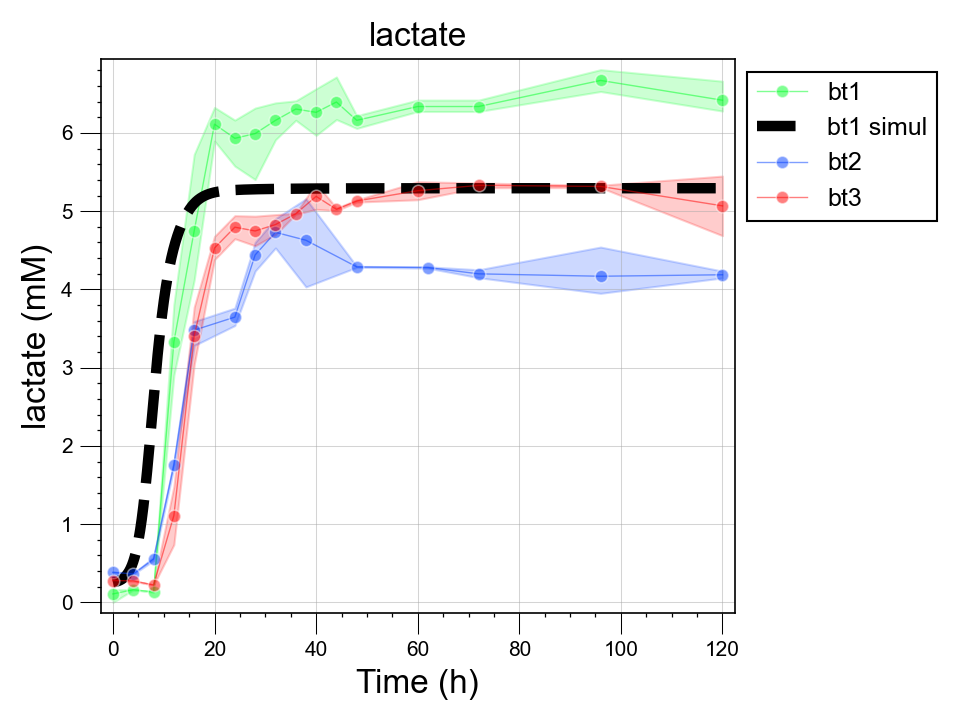
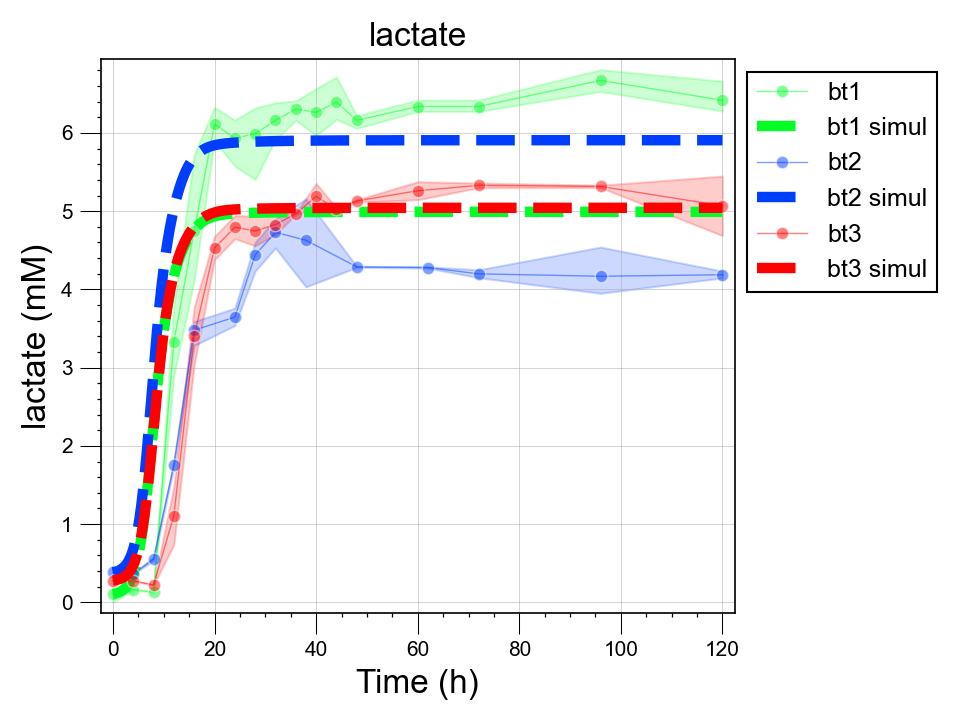
updates

diff --git a/scripts/compare2experiments/compareModel2States.py b/scripts/compare2experiments/compareModel2States.py
@@ -43,15 +43,7 @@ measuredStates = ['live',
                   'lactate',
                   'acetate']
 
-intervals = [4,
-             12,
-             4,
-             
-             4,
-             4,
-             4,
-             16,
-             4]
+
 
 
 bh1 = simulateExperiment('bh', 
@@ -60,7 +52,7 @@ bh1 = simulateExperiment('bh',
                        database, 
                        measuredStates, 
                        combined=False, 
-                       intervals=intervals)
+                       intervals=None)
 
 bh2 = simulateExperiment('bh', 
                        'bhri', 
@@ -68,7 +60,7 @@ bh2 = simulateExperiment('bh',
                        database, 
                        measuredStates, 
                        combined=False, 
-                       intervals=intervals)
+                       intervals=None)
 
 bh3 = simulateExperiment('bh', 
                        'bhbtri', 
@@ -76,7 +68,7 @@ bh3 = simulateExperiment('bh',
                        database, 
                        measuredStates, 
                        combined=False, 
-                       intervals=intervals)
+                       intervals=None)
 
 
 
@@ -108,30 +100,93 @@ for i,v in enumerate(states):
     makeExperimentPlot(species, v, stTypes[i], experiments, labels, colors, simulObj = [bh1, bh2, bh3], alpha=0.5)
     #plt.savefig(os.path.join(figPath, v + '_model.png'), dpi = 150)
     #plt.savefig(os.path.join(figPath, 'logos', v + '_model.png'), dpi = 50)
-    #plt.show()
+    plt.show()
     
 
-measuredStates = [
-                  'trehalose',
-                  'pyruvate',
-                  'glucose',
-                  'lactate',
-                  'acetate']
 
-bhwctreh = simulateExperiment('bh', 
-                       'bhwctreh', 
+####################################################################################
+
+species = 'bt'
+experiments = ['bhbt', 'btri', 'bhbtri']
+labels = ['bt1', 'bt2', 'bt3']
+colors = ['#00ff26', '#003eff', '#ff0000']
+
+params = getPramsFromFile('bt', os.path.join(Path(os.getcwd()).parents[1], 'files', 'params', 'bt.tsv'))
+
+databaseName = 'modelDB_bhbtri_bh.sqlite3'
+
+databaseFolder =  os.path.join(Path(os.getcwd()).parents[1], 'files', 'dbs')
+
+database = os.path.join(databaseFolder, databaseName)
+
+conn = create_connection(os.path.join(databaseFolder, databaseName))
+assignBtParams(params, conn)
+
+
+
+
+
+
+measuredStates = ['live',
+          
+          
+          'pyruvate',
+          'glucose',
+          'acetate',
+          'lactate',
+          'formate',
+          'succinate']
+
+bt1 = simulateExperiment('bt', 
+                       'bhbt', 
                        params, 
                        database, 
                        measuredStates, 
                        combined=False, 
-                       intervals=intervals,
-                       starttime=17,
-                       endtime = 90)
+                       intervals=None)
 
-bhwc1 = simulateExperiment('bh', 
-                       'bhwc1', 
+bt2 = simulateExperiment('bt', 
+                       'btri', 
                        params, 
                        database, 
                        measuredStates, 
                        combined=False, 
-                       intervals=intervals)
+                       intervals=None)
+
+bt3 = simulateExperiment('bt', 
+                       'bhbtri', 
+                       params, 
+                       database, 
+                       measuredStates, 
+                       combined=False, 
+                       intervals=None)
+
+figPath = os.path.join(Path(os.getcwd()).parents[1], 'files', 'Figures', species+'Experiments')
+
+states = ['live',
+          'dead',
+          'pH',
+          
+          'pyruvate',
+          'glucose',
+          'acetate',
+          'lactate',
+          'formate',
+          'succinate']
+
+
+stTypes = ['cells',
+            'cells',
+            'pH',
+            'metabolite',
+            'metabolite',
+            'metabolite',
+            'metabolite',
+            'metabolite',
+            'metabolite']
+
+for i,v in enumerate(states):
+    makeExperimentPlot(species, v, stTypes[i], experiments, labels, colors, simulObj = [bt1, bt2, bt3], alpha=0.5)
+    plt.savefig(os.path.join(figPath, v + '_model.png'), dpi = 150)
+    plt.savefig(os.path.join(figPath, 'logos', v + '_model.png'), dpi = 50)
+    plt.show()
